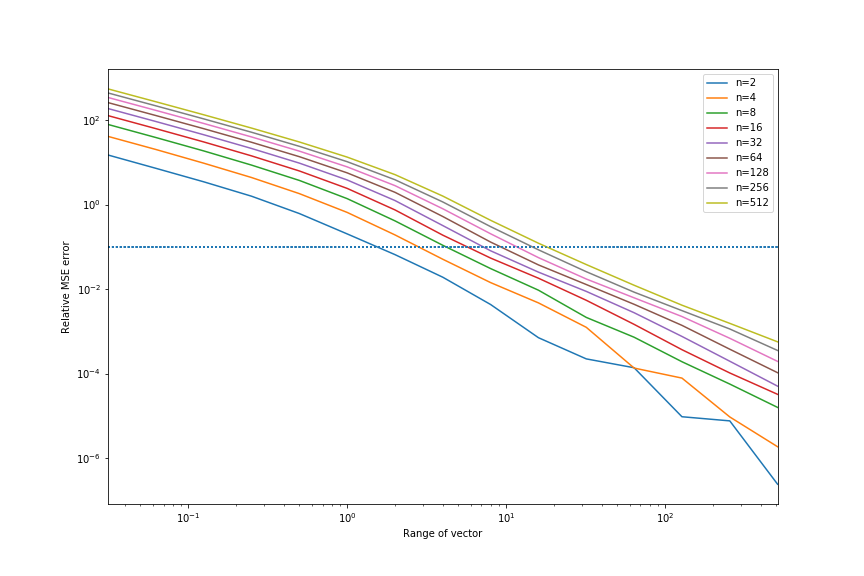
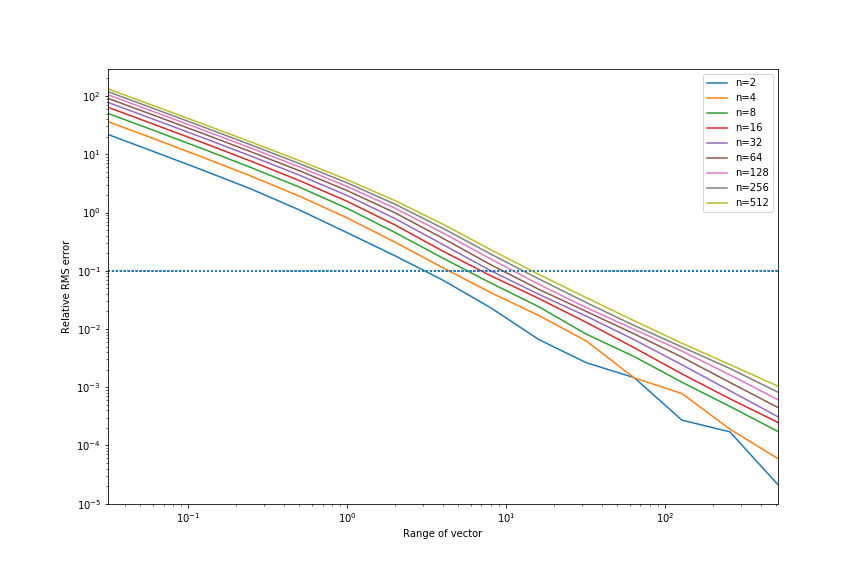
RMS not MSE!

diff --git a/README.md b/README.md
@@ -85,7 +85,7 @@ with tf.Session() as s:
 ```
 
 ## Error analysis
-The plot below shows the relative MSE (MSE divided by the maximum range of the input) between the softmax sorted array and the ground truth sorted array, for vectors of length `n=2` through `n=512`, with test values distributed randomly uniformly in ranges from [0, 2^-5] to [0, 2^10]. The main factor affecting precision is the numerical range. Small values will be corrupted, but values > ~300 will overflow (in `float64`):
+The plot below shows the relative RMS (RMS error divided by the maximum range of the input) between the softmax sorted array and the ground truth sorted array, for vectors of length `n=2` through `n=512`, with test values distributed randomly uniformly in ranges from [0, 2^-5] to [0, 2^10]. The main factor affecting precision is the numerical range. Small values will be corrupted, but values > ~300 will overflow (in `float64`):
 
 <img src="imgs/error_analysis_float64.png" width="75%">
 
